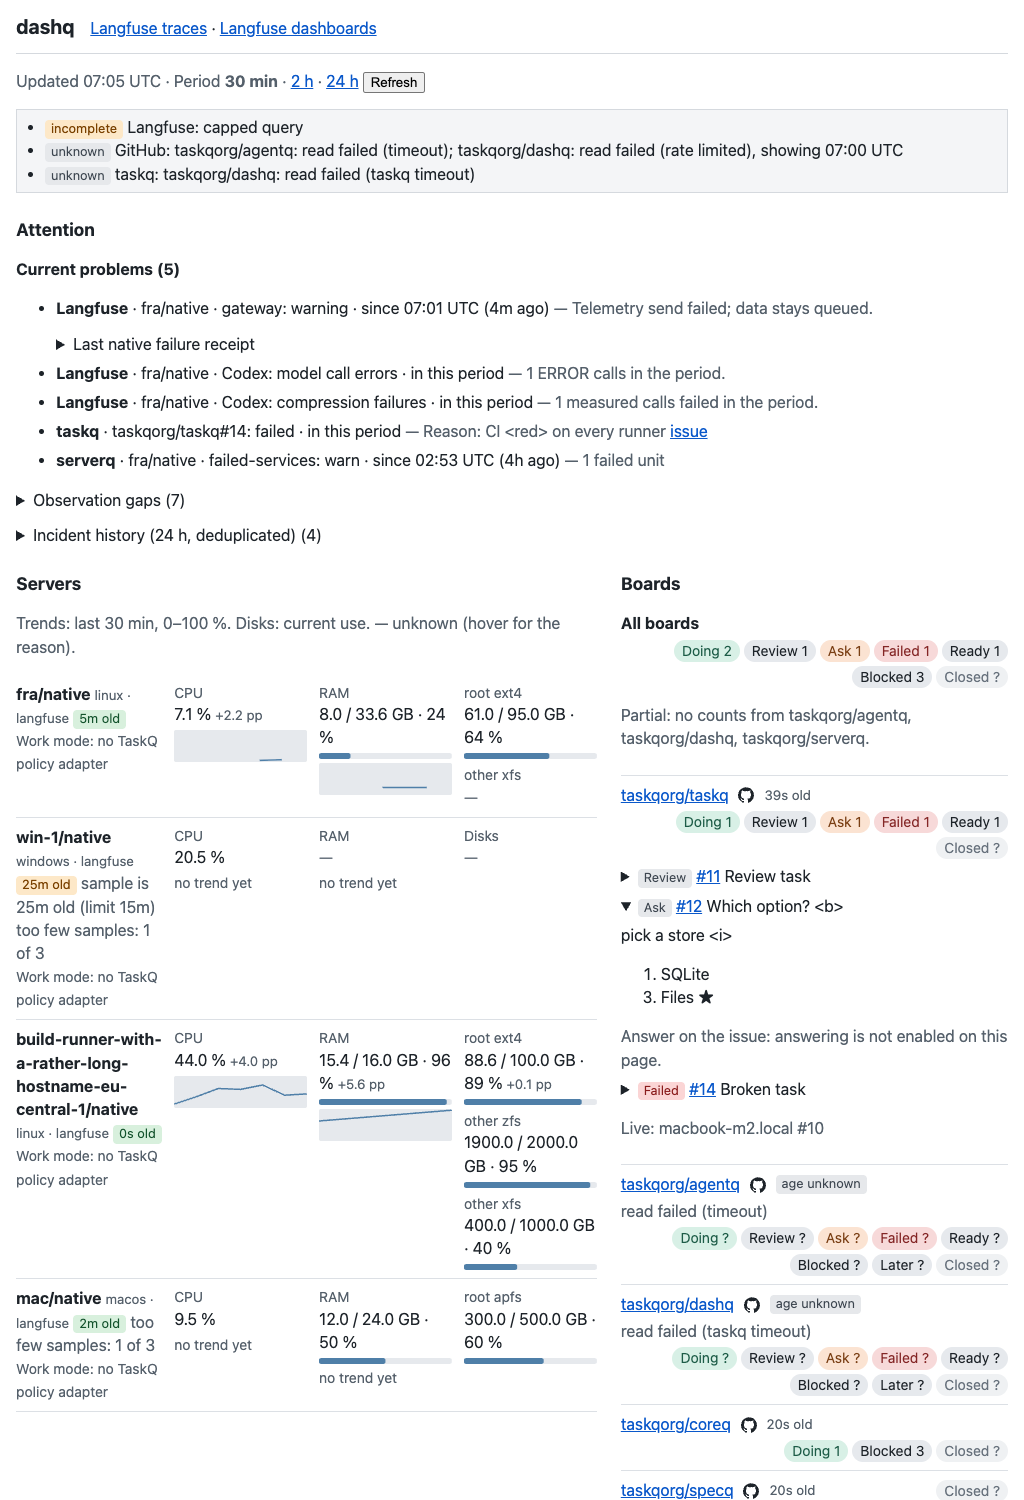
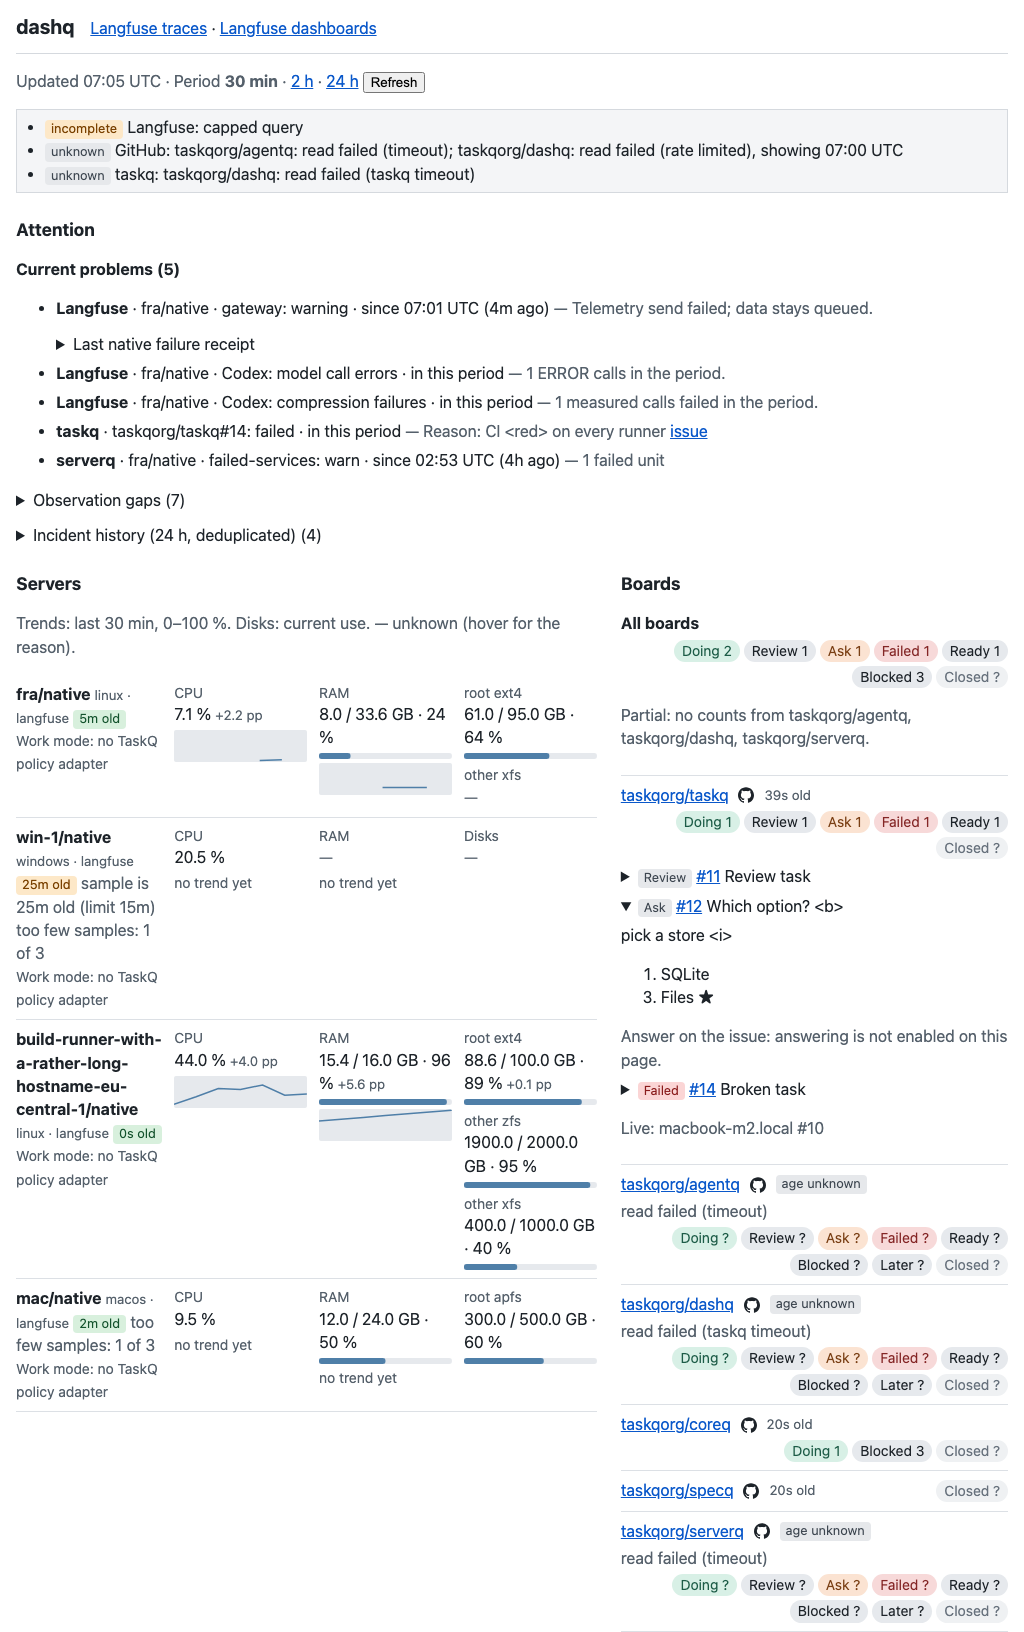
Tint changed board counters and recapture first-screen evidence
Board counters carry an id and data-n, so a refresh tints a changed
count; a counter newly shown on a shown board counts as changed from 0.
Evidence is recaptured with the browser default font size set to 16 or
20 px (1024/16 light, 1024/20 light, 360/20 dark, 360/16 dark); no
element crosses either viewport edge. The earlier 360/20 clipping was a
capture artifact, not page overflow.

Task: https://github.com/taskqorg/dashq/issues/76

diff --git a/fixture/page.html b/fixture/page.html
@@ -59,8 +59,8 @@
 </section>
 <section id="boards">
 <h2>Boards</h2>
-<div class="proj all"><div class="ph"><b>All boards</b><span class="counts" aria-label="All boards counters"><span class="c doing" title="Doing: 1" aria-label="Doing: 1">Doing 1</span><span class="c review" title="Review: 1" aria-label="Review: 1">Review 1</span><span class="c ask" title="Ask: 1" aria-label="Ask: 1">Ask 1</span><span class="c failed" title="Failed: 1" aria-label="Failed: 1">Failed 1</span><span class="c ready" title="Ready: 1" aria-label="Ready: 1">Ready 1</span><span class="c closed" title="Closed: unknown" aria-label="Closed: unknown">Closed ?</span></span></div><p class="detail">Partial: no counts from taskqorg/agentq, taskqorg/dashq.</p></div>
-<div class="proj" id="board-taskqorg-taskq"><div class="ph"><a href="https://github.com/taskqorg/taskq/issues">taskqorg/taskq</a> <a class="board" href="https://github.com/taskqorg/taskq/issues" aria-label="taskqorg/taskq Board on GitHub" title="Board"><svg role="img" viewBox="0 0 24 24" xmlns="http://www.w3.org/2000/svg"><title>GitHub</title><path d="M12 .297c-6.63 0-12 5.373-12 12 0 5.303 3.438 9.8 8.205 11.385.6.113.82-.258.82-.577 0-.285-.01-1.04-.015-2.04-3.338.724-4.042-1.61-4.042-1.61C4.422 18.07 3.633 17.7 3.633 17.7c-1.087-.744.084-.729.084-.729 1.205.084 1.838 1.236 1.838 1.236 1.07 1.835 2.809 1.305 3.495.998.108-.776.417-1.305.76-1.605-2.665-.3-5.466-1.332-5.466-5.93 0-1.31.465-2.38 1.235-3.22-.135-.303-.54-1.523.105-3.176 0 0 1.005-.322 3.3 1.23.96-.267 1.98-.399 3-.405 1.02.006 2.04.138 3 .405 2.28-1.552 3.285-1.23 3.285-1.23.645 1.653.24 2.873.12 3.176.765.84 1.23 1.91 1.23 3.22 0 4.61-2.805 5.625-5.475 5.92.42.36.81 1.096.81 2.22 0 1.606-.015 2.896-.015 3.286 0 .315.21.69.825.57C20.565 22.092 24 17.592 24 12.297c0-6.627-5.373-12-12-12"/></svg></a> <small>39s old</small><span class="counts" aria-label="taskqorg/taskq counters"><span class="c doing" title="Doing: 1" aria-label="Doing: 1">Doing 1</span><span class="c review" title="Review: 1" aria-label="Review: 1">Review 1</span><span class="c ask" title="Ask: 1" aria-label="Ask: 1">Ask 1</span><span class="c failed" title="Failed: 1" aria-label="Failed: 1">Failed 1</span><span class="c ready" title="Ready: 1" aria-label="Ready: 1">Ready 1</span><span class="c closed" title="Closed: unknown" aria-label="Closed: unknown">Closed ?</span></span></div>
+<div class="proj all"><div class="ph"><b>All boards</b><span class="counts" aria-label="All boards counters"><span class="c doing" id="boards-all-doing" data-n="1" title="Doing: 1" aria-label="Doing: 1">Doing 1</span><span class="c review" id="boards-all-review" data-n="1" title="Review: 1" aria-label="Review: 1">Review 1</span><span class="c ask" id="boards-all-ask" data-n="1" title="Ask: 1" aria-label="Ask: 1">Ask 1</span><span class="c failed" id="boards-all-failed" data-n="1" title="Failed: 1" aria-label="Failed: 1">Failed 1</span><span class="c ready" id="boards-all-ready" data-n="1" title="Ready: 1" aria-label="Ready: 1">Ready 1</span><span class="c closed" id="boards-all-closed" data-n="?" title="Closed: unknown" aria-label="Closed: unknown">Closed ?</span></span></div><p class="detail">Partial: no counts from taskqorg/agentq, taskqorg/dashq.</p></div>
+<div class="proj" id="board-taskqorg-taskq"><div class="ph"><a href="https://github.com/taskqorg/taskq/issues">taskqorg/taskq</a> <a class="board" href="https://github.com/taskqorg/taskq/issues" aria-label="taskqorg/taskq Board on GitHub" title="Board"><svg role="img" viewBox="0 0 24 24" xmlns="http://www.w3.org/2000/svg"><title>GitHub</title><path d="M12 .297c-6.63 0-12 5.373-12 12 0 5.303 3.438 9.8 8.205 11.385.6.113.82-.258.82-.577 0-.285-.01-1.04-.015-2.04-3.338.724-4.042-1.61-4.042-1.61C4.422 18.07 3.633 17.7 3.633 17.7c-1.087-.744.084-.729.084-.729 1.205.084 1.838 1.236 1.838 1.236 1.07 1.835 2.809 1.305 3.495.998.108-.776.417-1.305.76-1.605-2.665-.3-5.466-1.332-5.466-5.93 0-1.31.465-2.38 1.235-3.22-.135-.303-.54-1.523.105-3.176 0 0 1.005-.322 3.3 1.23.96-.267 1.98-.399 3-.405 1.02.006 2.04.138 3 .405 2.28-1.552 3.285-1.23 3.285-1.23.645 1.653.24 2.873.12 3.176.765.84 1.23 1.91 1.23 3.22 0 4.61-2.805 5.625-5.475 5.92.42.36.81 1.096.81 2.22 0 1.606-.015 2.896-.015 3.286 0 .315.21.69.825.57C20.565 22.092 24 17.592 24 12.297c0-6.627-5.373-12-12-12"/></svg></a> <small>39s old</small><span class="counts" aria-label="taskqorg/taskq counters"><span class="c doing" id="board-taskqorg-taskq-doing" data-n="1" title="Doing: 1" aria-label="Doing: 1">Doing 1</span><span class="c review" id="board-taskqorg-taskq-review" data-n="1" title="Review: 1" aria-label="Review: 1">Review 1</span><span class="c ask" id="board-taskqorg-taskq-ask" data-n="1" title="Ask: 1" aria-label="Ask: 1">Ask 1</span><span class="c failed" id="board-taskqorg-taskq-failed" data-n="1" title="Failed: 1" aria-label="Failed: 1">Failed 1</span><span class="c ready" id="board-taskqorg-taskq-ready" data-n="1" title="Ready: 1" aria-label="Ready: 1">Ready 1</span><span class="c closed" id="board-taskqorg-taskq-closed" data-n="?" title="Closed: unknown" aria-label="Closed: unknown">Closed ?</span></span></div>
 <details class="q" id="q-board-taskqorg-taskq-11"><summary><span class="s unknown">Review</span> <a href="https://github.com/taskqorg/taskq/issues/11">#11</a> Review task</summary>
 <p>Merge now or wait?</p>
 <p class="detail">Answer on the issue: answering is not enabled on this page.</p></details>
@@ -71,9 +71,9 @@
 <details class="q" id="f-board-taskqorg-taskq-14"><summary><span class="s bad">Failed</span> <a href="https://github.com/taskqorg/taskq/issues/14">#14</a> Broken task</summary><p>Reason: CI &lt;red&gt; on every runner</p></details>
 <p class="detail">Live: macbook-m2.local #10</p>
 </div>
-<div class="proj" id="board-taskqorg-agentq"><div class="ph"><a href="https://github.com/taskqorg/agentq/issues">taskqorg/agentq</a> <a class="board" href="https://github.com/taskqorg/agentq/issues" aria-label="taskqorg/agentq Board on GitHub" title="Board"><svg role="img" viewBox="0 0 24 24" xmlns="http://www.w3.org/2000/svg"><title>GitHub</title><path d="M12 .297c-6.63 0-12 5.373-12 12 0 5.303 3.438 9.8 8.205 11.385.6.113.82-.258.82-.577 0-.285-.01-1.04-.015-2.04-3.338.724-4.042-1.61-4.042-1.61C4.422 18.07 3.633 17.7 3.633 17.7c-1.087-.744.084-.729.084-.729 1.205.084 1.838 1.236 1.838 1.236 1.07 1.835 2.809 1.305 3.495.998.108-.776.417-1.305.76-1.605-2.665-.3-5.466-1.332-5.466-5.93 0-1.31.465-2.38 1.235-3.22-.135-.303-.54-1.523.105-3.176 0 0 1.005-.322 3.3 1.23.96-.267 1.98-.399 3-.405 1.02.006 2.04.138 3 .405 2.28-1.552 3.285-1.23 3.285-1.23.645 1.653.24 2.873.12 3.176.765.84 1.23 1.91 1.23 3.22 0 4.61-2.805 5.625-5.475 5.92.42.36.81 1.096.81 2.22 0 1.606-.015 2.896-.015 3.286 0 .315.21.69.825.57C20.565 22.092 24 17.592 24 12.297c0-6.627-5.373-12-12-12"/></svg></a> <span class="s unknown">age unknown</span> <span class="detail">read failed (timeout)</span><span class="counts" aria-label="taskqorg/agentq counters"><span class="c doing" title="Doing: unknown" aria-label="Doing: unknown">Doing ?</span><span class="c review" title="Review: unknown" aria-label="Review: unknown">Review ?</span><span class="c ask" title="Ask: unknown" aria-label="Ask: unknown">Ask ?</span><span class="c failed" title="Failed: unknown" aria-label="Failed: unknown">Failed ?</span><span class="c ready" title="Ready: unknown" aria-label="Ready: unknown">Ready ?</span><span class="c waiting" title="Blocked: unknown" aria-label="Blocked: unknown">Blocked ?</span><span class="c later" title="Later: unknown" aria-label="Later: unknown">Later ?</span><span class="c closed" title="Closed: unknown" aria-label="Closed: unknown">Closed ?</span></span></div>
+<div class="proj" id="board-taskqorg-agentq"><div class="ph"><a href="https://github.com/taskqorg/agentq/issues">taskqorg/agentq</a> <a class="board" href="https://github.com/taskqorg/agentq/issues" aria-label="taskqorg/agentq Board on GitHub" title="Board"><svg role="img" viewBox="0 0 24 24" xmlns="http://www.w3.org/2000/svg"><title>GitHub</title><path d="M12 .297c-6.63 0-12 5.373-12 12 0 5.303 3.438 9.8 8.205 11.385.6.113.82-.258.82-.577 0-.285-.01-1.04-.015-2.04-3.338.724-4.042-1.61-4.042-1.61C4.422 18.07 3.633 17.7 3.633 17.7c-1.087-.744.084-.729.084-.729 1.205.084 1.838 1.236 1.838 1.236 1.07 1.835 2.809 1.305 3.495.998.108-.776.417-1.305.76-1.605-2.665-.3-5.466-1.332-5.466-5.93 0-1.31.465-2.38 1.235-3.22-.135-.303-.54-1.523.105-3.176 0 0 1.005-.322 3.3 1.23.96-.267 1.98-.399 3-.405 1.02.006 2.04.138 3 .405 2.28-1.552 3.285-1.23 3.285-1.23.645 1.653.24 2.873.12 3.176.765.84 1.23 1.91 1.23 3.22 0 4.61-2.805 5.625-5.475 5.92.42.36.81 1.096.81 2.22 0 1.606-.015 2.896-.015 3.286 0 .315.21.69.825.57C20.565 22.092 24 17.592 24 12.297c0-6.627-5.373-12-12-12"/></svg></a> <span class="s unknown">age unknown</span> <span class="detail">read failed (timeout)</span><span class="counts" aria-label="taskqorg/agentq counters"><span class="c doing" id="board-taskqorg-agentq-doing" data-n="?" title="Doing: unknown" aria-label="Doing: unknown">Doing ?</span><span class="c review" id="board-taskqorg-agentq-review" data-n="?" title="Review: unknown" aria-label="Review: unknown">Review ?</span><span class="c ask" id="board-taskqorg-agentq-ask" data-n="?" title="Ask: unknown" aria-label="Ask: unknown">Ask ?</span><span class="c failed" id="board-taskqorg-agentq-failed" data-n="?" title="Failed: unknown" aria-label="Failed: unknown">Failed ?</span><span class="c ready" id="board-taskqorg-agentq-ready" data-n="?" title="Ready: unknown" aria-label="Ready: unknown">Ready ?</span><span class="c waiting" id="board-taskqorg-agentq-waiting" data-n="?" title="Blocked: unknown" aria-label="Blocked: unknown">Blocked ?</span><span class="c later" id="board-taskqorg-agentq-later" data-n="?" title="Later: unknown" aria-label="Later: unknown">Later ?</span><span class="c closed" id="board-taskqorg-agentq-closed" data-n="?" title="Closed: unknown" aria-label="Closed: unknown">Closed ?</span></span></div>
 </div>
-<div class="proj" id="board-taskqorg-dashq"><div class="ph"><a href="https://github.com/taskqorg/dashq/issues">taskqorg/dashq</a> <a class="board" href="https://github.com/taskqorg/dashq/issues" aria-label="taskqorg/dashq Board on GitHub" title="Board"><svg role="img" viewBox="0 0 24 24" xmlns="http://www.w3.org/2000/svg"><title>GitHub</title><path d="M12 .297c-6.63 0-12 5.373-12 12 0 5.303 3.438 9.8 8.205 11.385.6.113.82-.258.82-.577 0-.285-.01-1.04-.015-2.04-3.338.724-4.042-1.61-4.042-1.61C4.422 18.07 3.633 17.7 3.633 17.7c-1.087-.744.084-.729.084-.729 1.205.084 1.838 1.236 1.838 1.236 1.07 1.835 2.809 1.305 3.495.998.108-.776.417-1.305.76-1.605-2.665-.3-5.466-1.332-5.466-5.93 0-1.31.465-2.38 1.235-3.22-.135-.303-.54-1.523.105-3.176 0 0 1.005-.322 3.3 1.23.96-.267 1.98-.399 3-.405 1.02.006 2.04.138 3 .405 2.28-1.552 3.285-1.23 3.285-1.23.645 1.653.24 2.873.12 3.176.765.84 1.23 1.91 1.23 3.22 0 4.61-2.805 5.625-5.475 5.92.42.36.81 1.096.81 2.22 0 1.606-.015 2.896-.015 3.286 0 .315.21.69.825.57C20.565 22.092 24 17.592 24 12.297c0-6.627-5.373-12-12-12"/></svg></a> <span class="s unknown">age unknown</span> <span class="detail">read failed (taskq timeout)</span><span class="counts" aria-label="taskqorg/dashq counters"><span class="c doing" title="Doing: unknown" aria-label="Doing: unknown">Doing ?</span><span class="c review" title="Review: unknown" aria-label="Review: unknown">Review ?</span><span class="c ask" title="Ask: unknown" aria-label="Ask: unknown">Ask ?</span><span class="c failed" title="Failed: unknown" aria-label="Failed: unknown">Failed ?</span><span class="c ready" title="Ready: unknown" aria-label="Ready: unknown">Ready ?</span><span class="c waiting" title="Blocked: unknown" aria-label="Blocked: unknown">Blocked ?</span><span class="c later" title="Later: unknown" aria-label="Later: unknown">Later ?</span><span class="c closed" title="Closed: unknown" aria-label="Closed: unknown">Closed ?</span></span></div>
+<div class="proj" id="board-taskqorg-dashq"><div class="ph"><a href="https://github.com/taskqorg/dashq/issues">taskqorg/dashq</a> <a class="board" href="https://github.com/taskqorg/dashq/issues" aria-label="taskqorg/dashq Board on GitHub" title="Board"><svg role="img" viewBox="0 0 24 24" xmlns="http://www.w3.org/2000/svg"><title>GitHub</title><path d="M12 .297c-6.63 0-12 5.373-12 12 0 5.303 3.438 9.8 8.205 11.385.6.113.82-.258.82-.577 0-.285-.01-1.04-.015-2.04-3.338.724-4.042-1.61-4.042-1.61C4.422 18.07 3.633 17.7 3.633 17.7c-1.087-.744.084-.729.084-.729 1.205.084 1.838 1.236 1.838 1.236 1.07 1.835 2.809 1.305 3.495.998.108-.776.417-1.305.76-1.605-2.665-.3-5.466-1.332-5.466-5.93 0-1.31.465-2.38 1.235-3.22-.135-.303-.54-1.523.105-3.176 0 0 1.005-.322 3.3 1.23.96-.267 1.98-.399 3-.405 1.02.006 2.04.138 3 .405 2.28-1.552 3.285-1.23 3.285-1.23.645 1.653.24 2.873.12 3.176.765.84 1.23 1.91 1.23 3.22 0 4.61-2.805 5.625-5.475 5.92.42.36.81 1.096.81 2.22 0 1.606-.015 2.896-.015 3.286 0 .315.21.69.825.57C20.565 22.092 24 17.592 24 12.297c0-6.627-5.373-12-12-12"/></svg></a> <span class="s unknown">age unknown</span> <span class="detail">read failed (taskq timeout)</span><span class="counts" aria-label="taskqorg/dashq counters"><span class="c doing" id="board-taskqorg-dashq-doing" data-n="?" title="Doing: unknown" aria-label="Doing: unknown">Doing ?</span><span class="c review" id="board-taskqorg-dashq-review" data-n="?" title="Review: unknown" aria-label="Review: unknown">Review ?</span><span class="c ask" id="board-taskqorg-dashq-ask" data-n="?" title="Ask: unknown" aria-label="Ask: unknown">Ask ?</span><span class="c failed" id="board-taskqorg-dashq-failed" data-n="?" title="Failed: unknown" aria-label="Failed: unknown">Failed ?</span><span class="c ready" id="board-taskqorg-dashq-ready" data-n="?" title="Ready: unknown" aria-label="Ready: unknown">Ready ?</span><span class="c waiting" id="board-taskqorg-dashq-waiting" data-n="?" title="Blocked: unknown" aria-label="Blocked: unknown">Blocked ?</span><span class="c later" id="board-taskqorg-dashq-later" data-n="?" title="Later: unknown" aria-label="Later: unknown">Later ?</span><span class="c closed" id="board-taskqorg-dashq-closed" data-n="?" title="Closed: unknown" aria-label="Closed: unknown">Closed ?</span></span></div>
 </div>
 </section>
 </div>

diff --git a/assets/app.js b/assets/app.js
@@ -22,7 +22,9 @@ async function refresh() {
     const y = window.scrollY;
     // overview.md: the final number at once, a brief local tint where it changed; row and Attention swap together
     const before = new Map([...document.querySelectorAll('main [data-n]')].map(e => [e.id, e.dataset.n]));
-    main.querySelectorAll('[data-n]').forEach(e => { if (before.has(e.id) && before.get(e.id) !== e.dataset.n) e.classList.add('tint'); });
+    // boards.md hides zero counters: a counter new to a shown board was 0
+    const was = e => before.has(e.id) ? before.get(e.id) : e.matches('.c') && document.getElementById(e.closest('[id]:not(.c)')?.id) ? '0' : undefined;
+    main.querySelectorAll('[data-n]').forEach(e => { const n = was(e); if (n !== undefined && n !== e.dataset.n) e.classList.add('tint'); });
     document.getElementById('main').replaceWith(main);
     main.querySelectorAll('details').forEach(d => { if (open.has(key(d))) d.open = open.get(key(d)); });
     if (focus) document.getElementById(focus)?.focus({ preventScroll: true });

diff --git a/src/page.rs b/src/page.rs
@@ -628,7 +628,8 @@ fn servers(w: &mut String, res: &Value, now: u64) {
 fn boards(w: &mut String, boards: &[Value]) {
     let names = ["Doing", "Review", "Ask", "Failed", "Ready", "Blocked", "Later", "Closed"];
     let keys: Vec<&str> = crate::data::COUNTS.iter().copied().chain(["closed"]).collect();
-    let strip = |label: &str, counts: &[Option<u64>]| -> String {
+    // each counter carries an `id` and `data-n` so a refresh tints a changed count (overview.md)
+    let strip = |id: &str, label: &str, counts: &[Option<u64>]| -> String {
         let caps: String = counts
             .iter()
             .zip(names)
@@ -637,7 +638,7 @@ fn boards(w: &mut String, boards: &[Value]) {
             .map(|((n, name), k)| {
                 let v = n.map_or("?".into(), |n| n.to_string());
                 let what = if n.is_some() { v.clone() } else { "unknown".into() };
-                format!("<span class=\"c {k}\" title=\"{name}: {what}\" aria-label=\"{name}: {what}\">{name} {v}</span>")
+                format!("<span class=\"c {k}\" id=\"{id}-{k}\" data-n=\"{v}\" title=\"{name}: {what}\" aria-label=\"{name}: {what}\">{name} {v}</span>")
             })
             .collect();
         format!("<span class=\"counts\" aria-label=\"{} counters\">{caps}</span>", esc(label))
@@ -663,7 +664,7 @@ fn boards(w: &mut String, boards: &[Value]) {
     let _ = writeln!(
         w,
         "<div class=\"proj all\"><div class=\"ph\"><b>All boards</b>{}</div>{}</div>",
-        strip("All boards", &agg),
+        strip("boards-all", "All boards", &agg),
         if partial.is_empty() { String::new() } else { format!("<p class=\"detail\">Partial: no counts from {}.</p>", partial.join(", ")) }
     );
     // one representative question open by default, preferably one awaiting an answer; a refresh keeps the reader's own choice
@@ -682,7 +683,7 @@ fn boards(w: &mut String, boards: &[Value]) {
             w,
             "<div class=\"proj\" id=\"{id}\"><div class=\"ph\"><a href=\"{url}\">{}</a> <a class=\"board\" href=\"{url}\" aria-label=\"{0} Board on GitHub\" title=\"Board\">{GITHUB}</a> {fresh}{}</div>",
             esc(project),
-            strip(project, &counts)
+            strip(&id, project, &counts)
         );
         let qs = b["questions"].as_array().map_or(&[][..], Vec::as_slice);
         for q in qs {
@@ -900,7 +901,10 @@ mod tests {
         // counters: TaskQ order, zero hidden, unknown `?`, Closed unknown and quiet
         let board = |p: &str| first.split("<div class=\"proj").find(|b| b.contains(&format!("aria-label=\"{p} counters\""))).unwrap().to_string();
         let coreq = board("taskqorg/coreq");
-        assert!(coreq.contains(">Doing 1</span><span class=\"c waiting\" title=\"Blocked: 3\" aria-label=\"Blocked: 3\">Blocked 3</span><span class=\"c closed\" title=\"Closed: unknown\""), "{coreq}");
+        assert!(coreq.contains(">Doing 1</span><span class=\"c waiting\" id=\"board-taskqorg-coreq-waiting\" data-n=\"3\" title=\"Blocked: 3\" aria-label=\"Blocked: 3\">Blocked 3</span><span class=\"c closed\" id=\"board-taskqorg-coreq-closed\" data-n=\"?\" title=\"Closed: unknown\""), "{coreq}");
+        // every counter has a unique id and data-n, so a refresh can tint a changed count
+        let ids: Vec<&str> = first.split("<span class=\"c ").skip(1).map(|c| c.split("id=\"").nth(1).unwrap().split('"').next().unwrap()).collect();
+        assert!(ids.contains(&"boards-all-doing") && ids.len() == ids.iter().collect::<std::collections::HashSet<_>>().len(), "{ids:?}");
         assert!(!board("taskqorg/specq").contains("class=\"c doing\""));
         assert!(board("taskqorg/serverq").contains(">Doing ?</span>") && board("taskqorg/serverq").contains("read failed (timeout)"));
         assert!(board("All boards").contains("Partial: no counts from taskqorg/agentq, taskqorg/dashq, taskqorg/serverq."), "{}", board("All boards"));

diff --git a/dashq.md b/dashq.md
@@ -133,7 +133,7 @@ Approved design; not implemented by this specification change. Apply [shared das
 
 Still unresolved: production warning thresholds, collection/retention qualification and Attention grouping depth for multiple real incidents. Demo host capacities, filesystem names, freshness and 85/90% thresholds are invented examples, not approved inventory or policy. Do not fabricate data while these remain unavailable.
 
-- Implemented (#76): Attention (current problems; gaps and history on demand) above `Servers` and `Boards`, side by side above 60 em and one column below. Each node row: identity, sample age, a Work mode entry naming its missing TaskQ policy adapter, CPU and RAM 30 min lines on 0–100 % (none from fewer than two connected samples), RAM and per-filesystem bars, pp change from the previous sample. Boards: `/data` `boards[].counts` in TaskQ counter order (zero hidden, unknown `?`, Closed unknown), the pinned provider Board asset, questions read-only with one open. Refresh tints changed values for 1.3 s (none under reduced motion), keeps disclosures, focus, scroll and skips while text is selected. Counter tokens approximate the parent until TaskQ releases its blocks (#43, #46). Evidence: [1024/16 light](docs/design/evidence/first-screen-1024-16-light.png), [360/20 dark](docs/design/evidence/first-screen-360-20-dark.png).
+- Implemented (#76): Attention (current problems; gaps and history on demand) above `Servers` and `Boards`, side by side above 60 em and one column below. Each node row: identity, sample age, a Work mode entry naming its missing TaskQ policy adapter, CPU and RAM 30 min lines on 0–100 % (none from fewer than two connected samples), RAM and per-filesystem bars, pp change from the previous sample. Boards: `/data` `boards[].counts` in TaskQ counter order (zero hidden, unknown `?`, Closed unknown), the pinned provider Board asset, questions read-only with one open. Refresh tints changed values, board counters included (a counter newly shown on a shown board counts as changed from 0), for 1.3 s (none under reduced motion), keeps disclosures, focus, scroll and skips while text is selected. Counter tokens approximate the parent until TaskQ releases its blocks (#43, #46). Evidence (Chromium, browser default font size set to 16 or 20 px, usable viewport 1024×768 or 360×768, captured to the end of Boards; no element crosses either edge, Servers start at y 547/711/1248/928): [1024/16 light](docs/design/evidence/first-screen-1024-16-light.png), [1024/20 light, one column](docs/design/evidence/first-screen-1024-20-light.png), [360/20 dark](docs/design/evidence/first-screen-360-20-dark.png), [360/16 dark](docs/design/evidence/first-screen-360-16-dark.png).
 
 Acceptance: review the first viewport and deeper content with representative live data, missing history, warnings and long labels; verify readable large text, both themes, reduced motion and multiple automatic refreshes. Record which data and UI requirements are implemented, unverified or blocked by a source gap.
 
